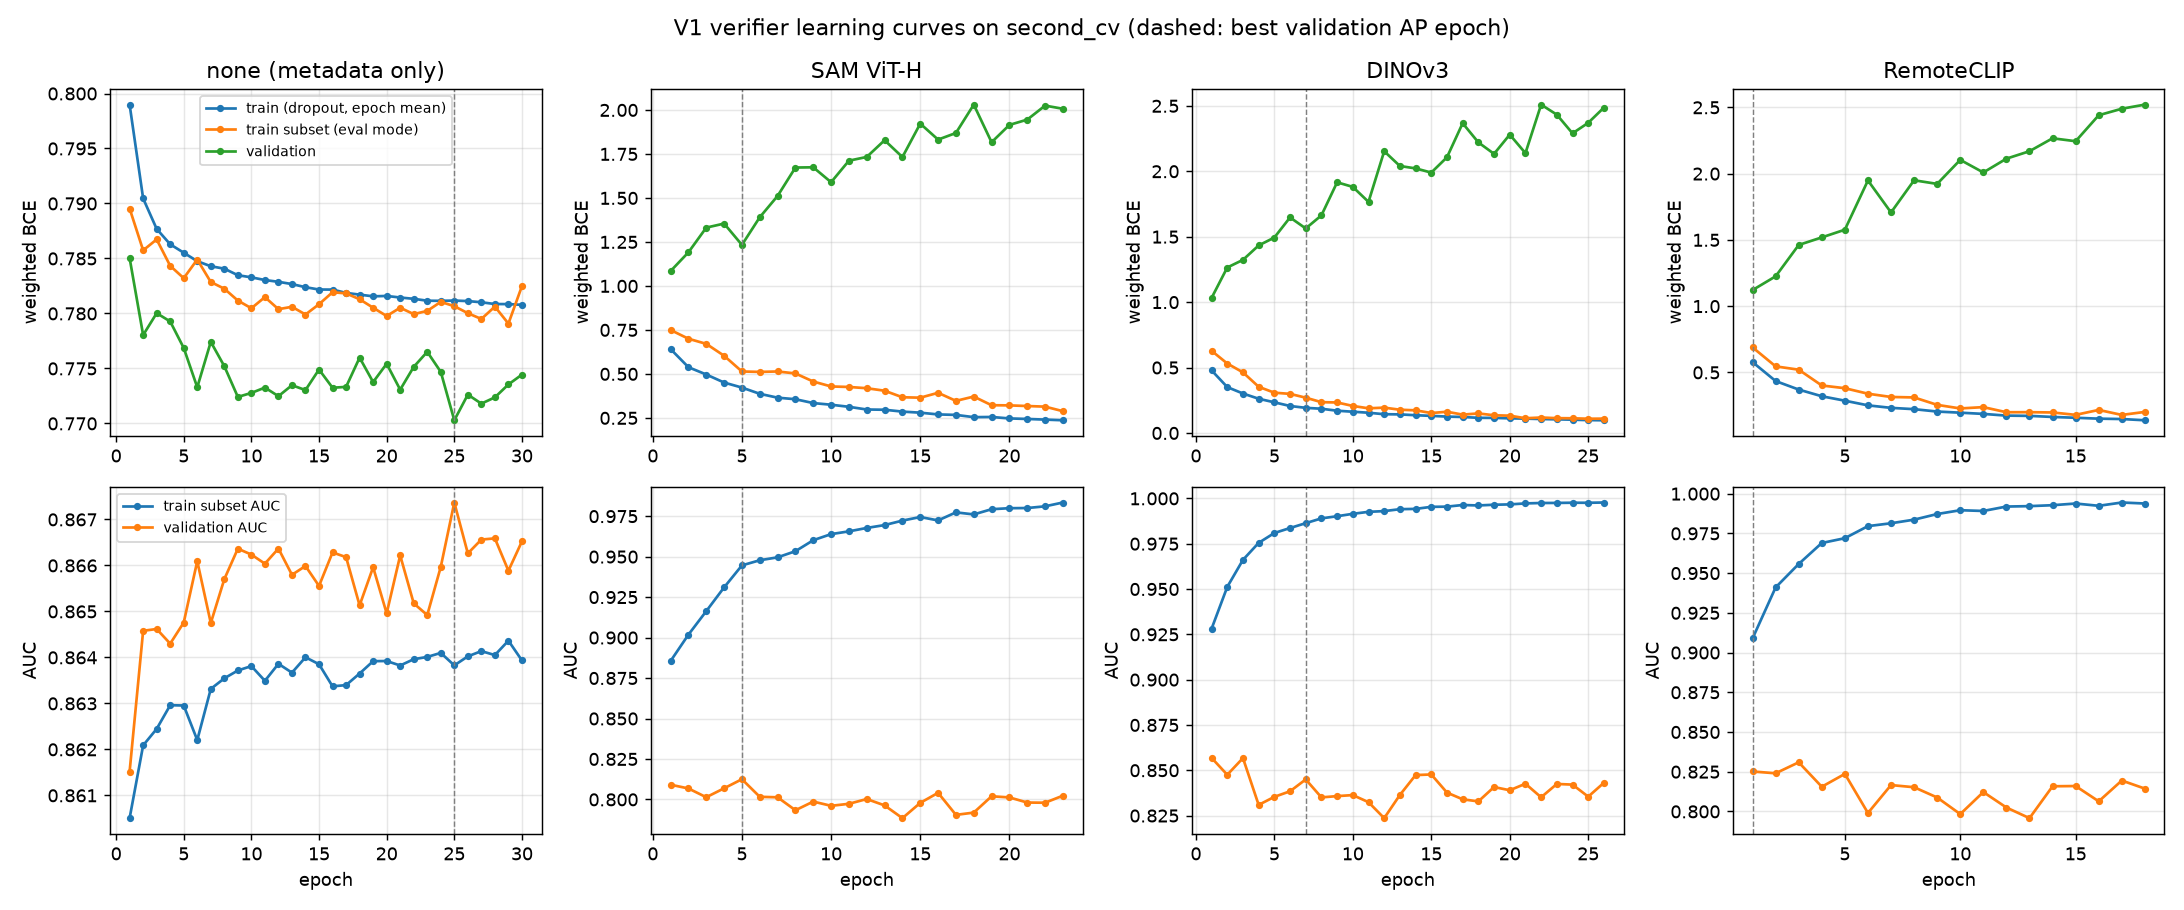
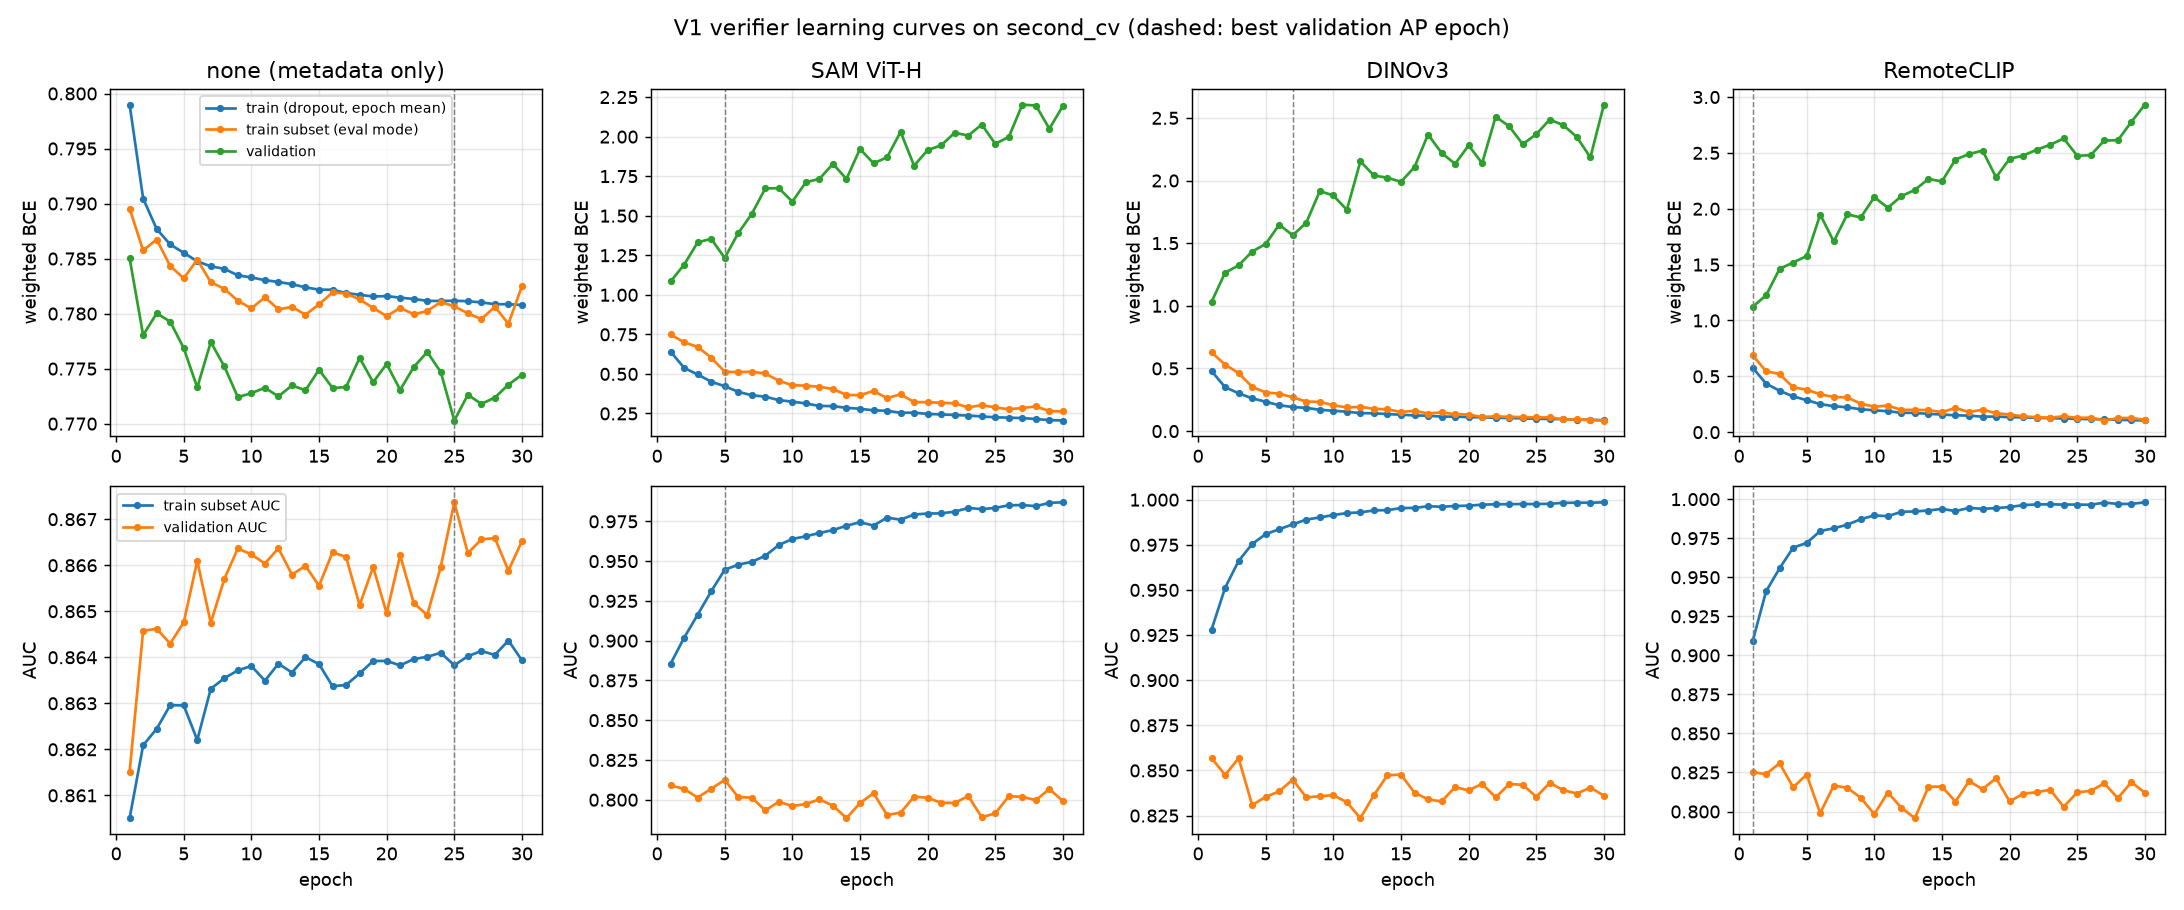
Experiment 6: complete 30-epoch V1 learning curves

diff --git a/results/exp6b_verifier.md b/results/exp6b_verifier.md
@@ -46,21 +46,21 @@
 
 ![V1 学习曲线](../figures/exp6f/v1_curves.png)
 
-为看清训练过程，用同一种子、同一数据重跑了四个版本，不早停，最多 30 轮（第 1 轮结果与原训练一致，可复现）。每轮额外记录两样东西：验证集 loss，以及从训练集固定抽出的 30 万块在评估模式（无 dropout）下的 loss 和 AUC。loss 都是训练用的加权 BCE。日志：`interim/exp6/v1_train_logs/`（`early_stop/` 是原训练，`curve_30ep/` 是重跑；推送时骨干版本的重跑还在进行，分别到第 18–26 轮）。
+为看清训练过程，用同一种子、同一数据重跑了四个版本，不早停，最多 30 轮（第 1 轮结果与原训练一致，可复现）。每轮额外记录两样东西：验证集 loss，以及从训练集固定抽出的 30 万块在评估模式（无 dropout）下的 loss 和 AUC。loss 都是训练用的加权 BCE。日志：`interim/exp6/v1_train_logs/`（`early_stop/` 是原训练，`curve_30ep/` 是重跑，四个版本都跑满 30 轮）。
 
 | 版本 | 轮次 | 训练子集 AUC | 验证 AUC | 训练子集 loss | 验证 loss |
 |---|---:|---:|---:|---:|---:|
 | none | 1 | 0.861 | 0.862 | 0.79 | 0.785 |
 | none | 30 | 0.864 | 0.867 | 0.78 | 0.774 |
 | SAM ViT-H | 1 | 0.886 | 0.809 | 0.75 | 1.08 |
-| SAM ViT-H | 17 | 0.977 | 0.790 | 0.35 | 1.87 |
+| SAM ViT-H | 30 | 0.987 | 0.799 | 0.26 | 2.19 |
 | DINOv3 | 1 | 0.928 | 0.857 | 0.63 | 1.03 |
-| DINOv3 | 20 | 0.997 | 0.839 | 0.13 | 2.28 |
+| DINOv3 | 30 | 0.999 | 0.836 | 0.08 | 2.61 |
 | RemoteCLIP | 1 | 0.909 | 0.825 | 0.69 | 1.12 |
-| RemoteCLIP | 11 | 0.989 | 0.812 | 0.24 | 2.01 |
+| RemoteCLIP | 30 | 0.998 | 0.812 | 0.11 | 2.93 |
 
 - **无骨干基线没有过拟合**：训练与验证曲线几乎重合，30 轮内 AUC 都在 0.86–0.87。
-- **三个骨干版本是典型的背训练样本**：训练子集 AUC 一路升到 0.98–0.997，验证 AUC 停在 0.79–0.86 不动；验证 loss 从第 1 轮起基本单调上升，到后期翻倍。
+- **三个骨干版本是典型的背训练样本**：训练子集 AUC 一路升到 0.987–0.999，验证 AUC 停在 0.80–0.86 不动；验证 loss 从第 1 轮起基本单调上升，第 30 轮时是第 1 轮的 2.0–2.6 倍。
 - **差距在第 1 轮结束时已经形成**：一轮要过 255 万个切块，训练子集与验证集 AUC 已差 0.07–0.08，验证 loss（1.03–1.12）已明显高于基线（0.785）。所以早停救不回来，加训练轮数也不会改变结论。
 - **解读**：冻结骨干 + 掩码内平均池化得到的图像特征，主要让模型认出"这是哪张训练图、哪片场景"，而不是学到可以迁移到新图像的变化判别信号。2,671 张训练图内切块高度相关，有效样本远少于 255 万。这更像是这种特征用法本身的问题，而不是训练设置的问题；6f 的 B1（图像特征只做残差修正）、B2（降维）和 C（原分辨率小网络）针对的就是这一点。
 
